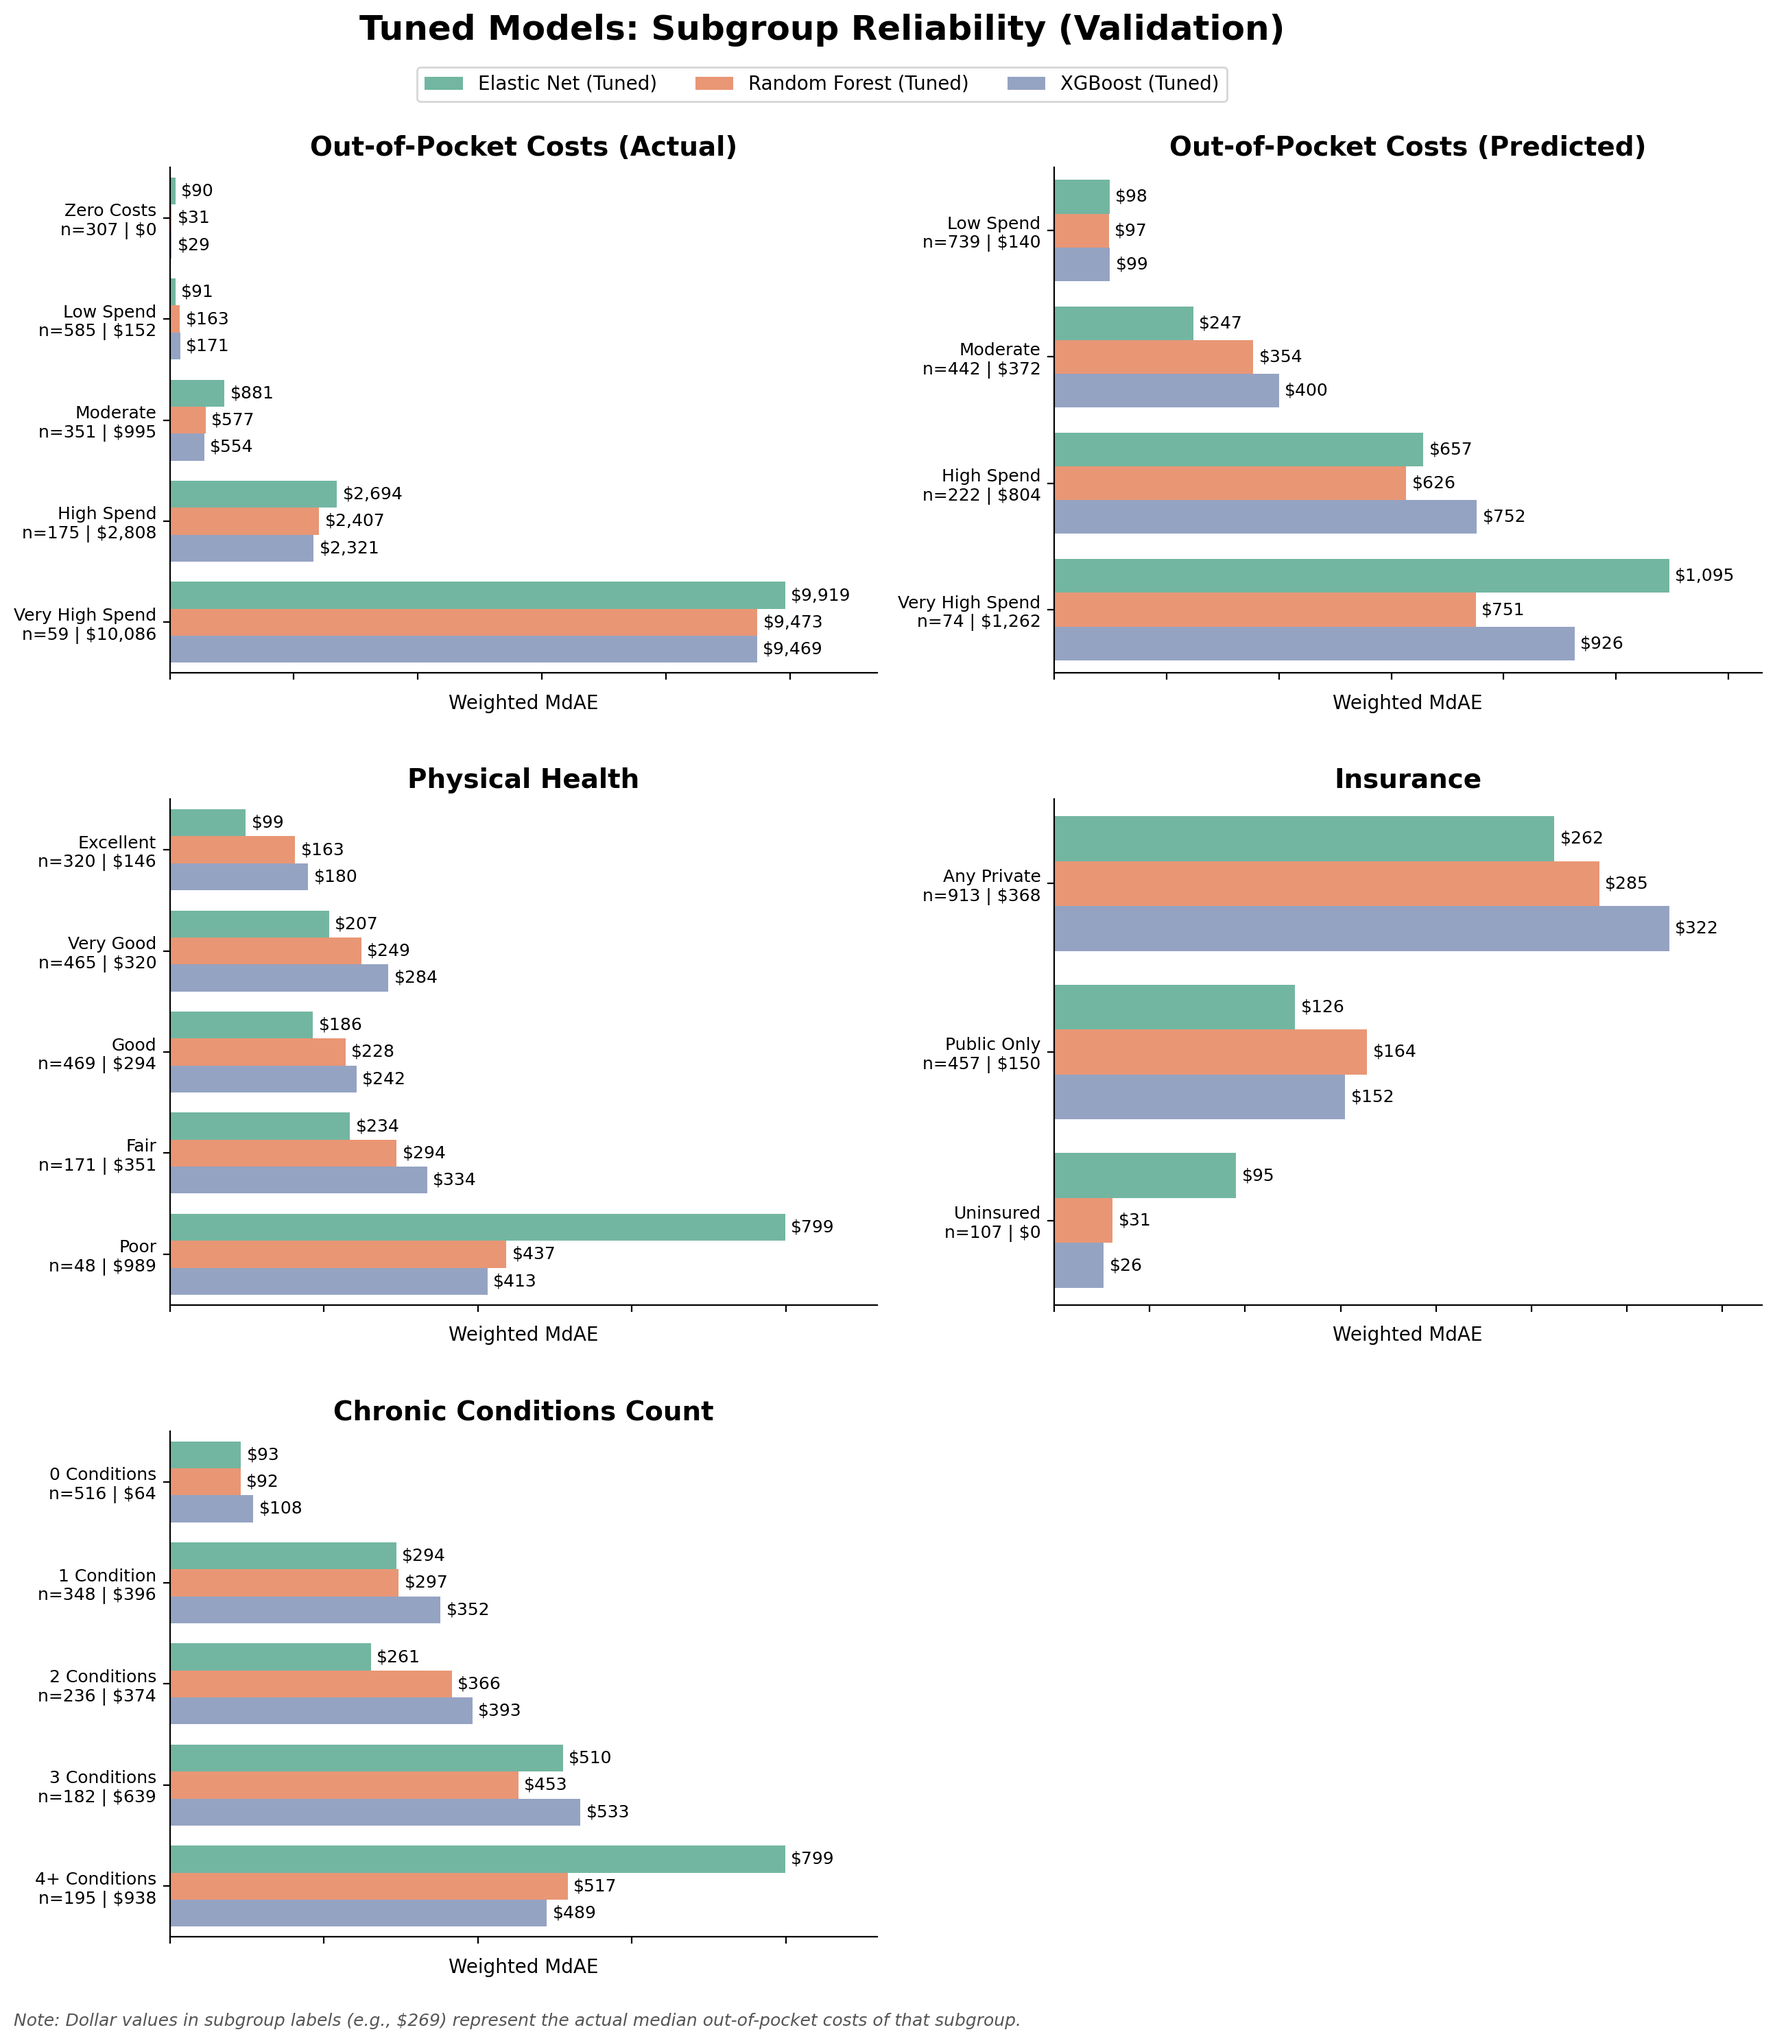
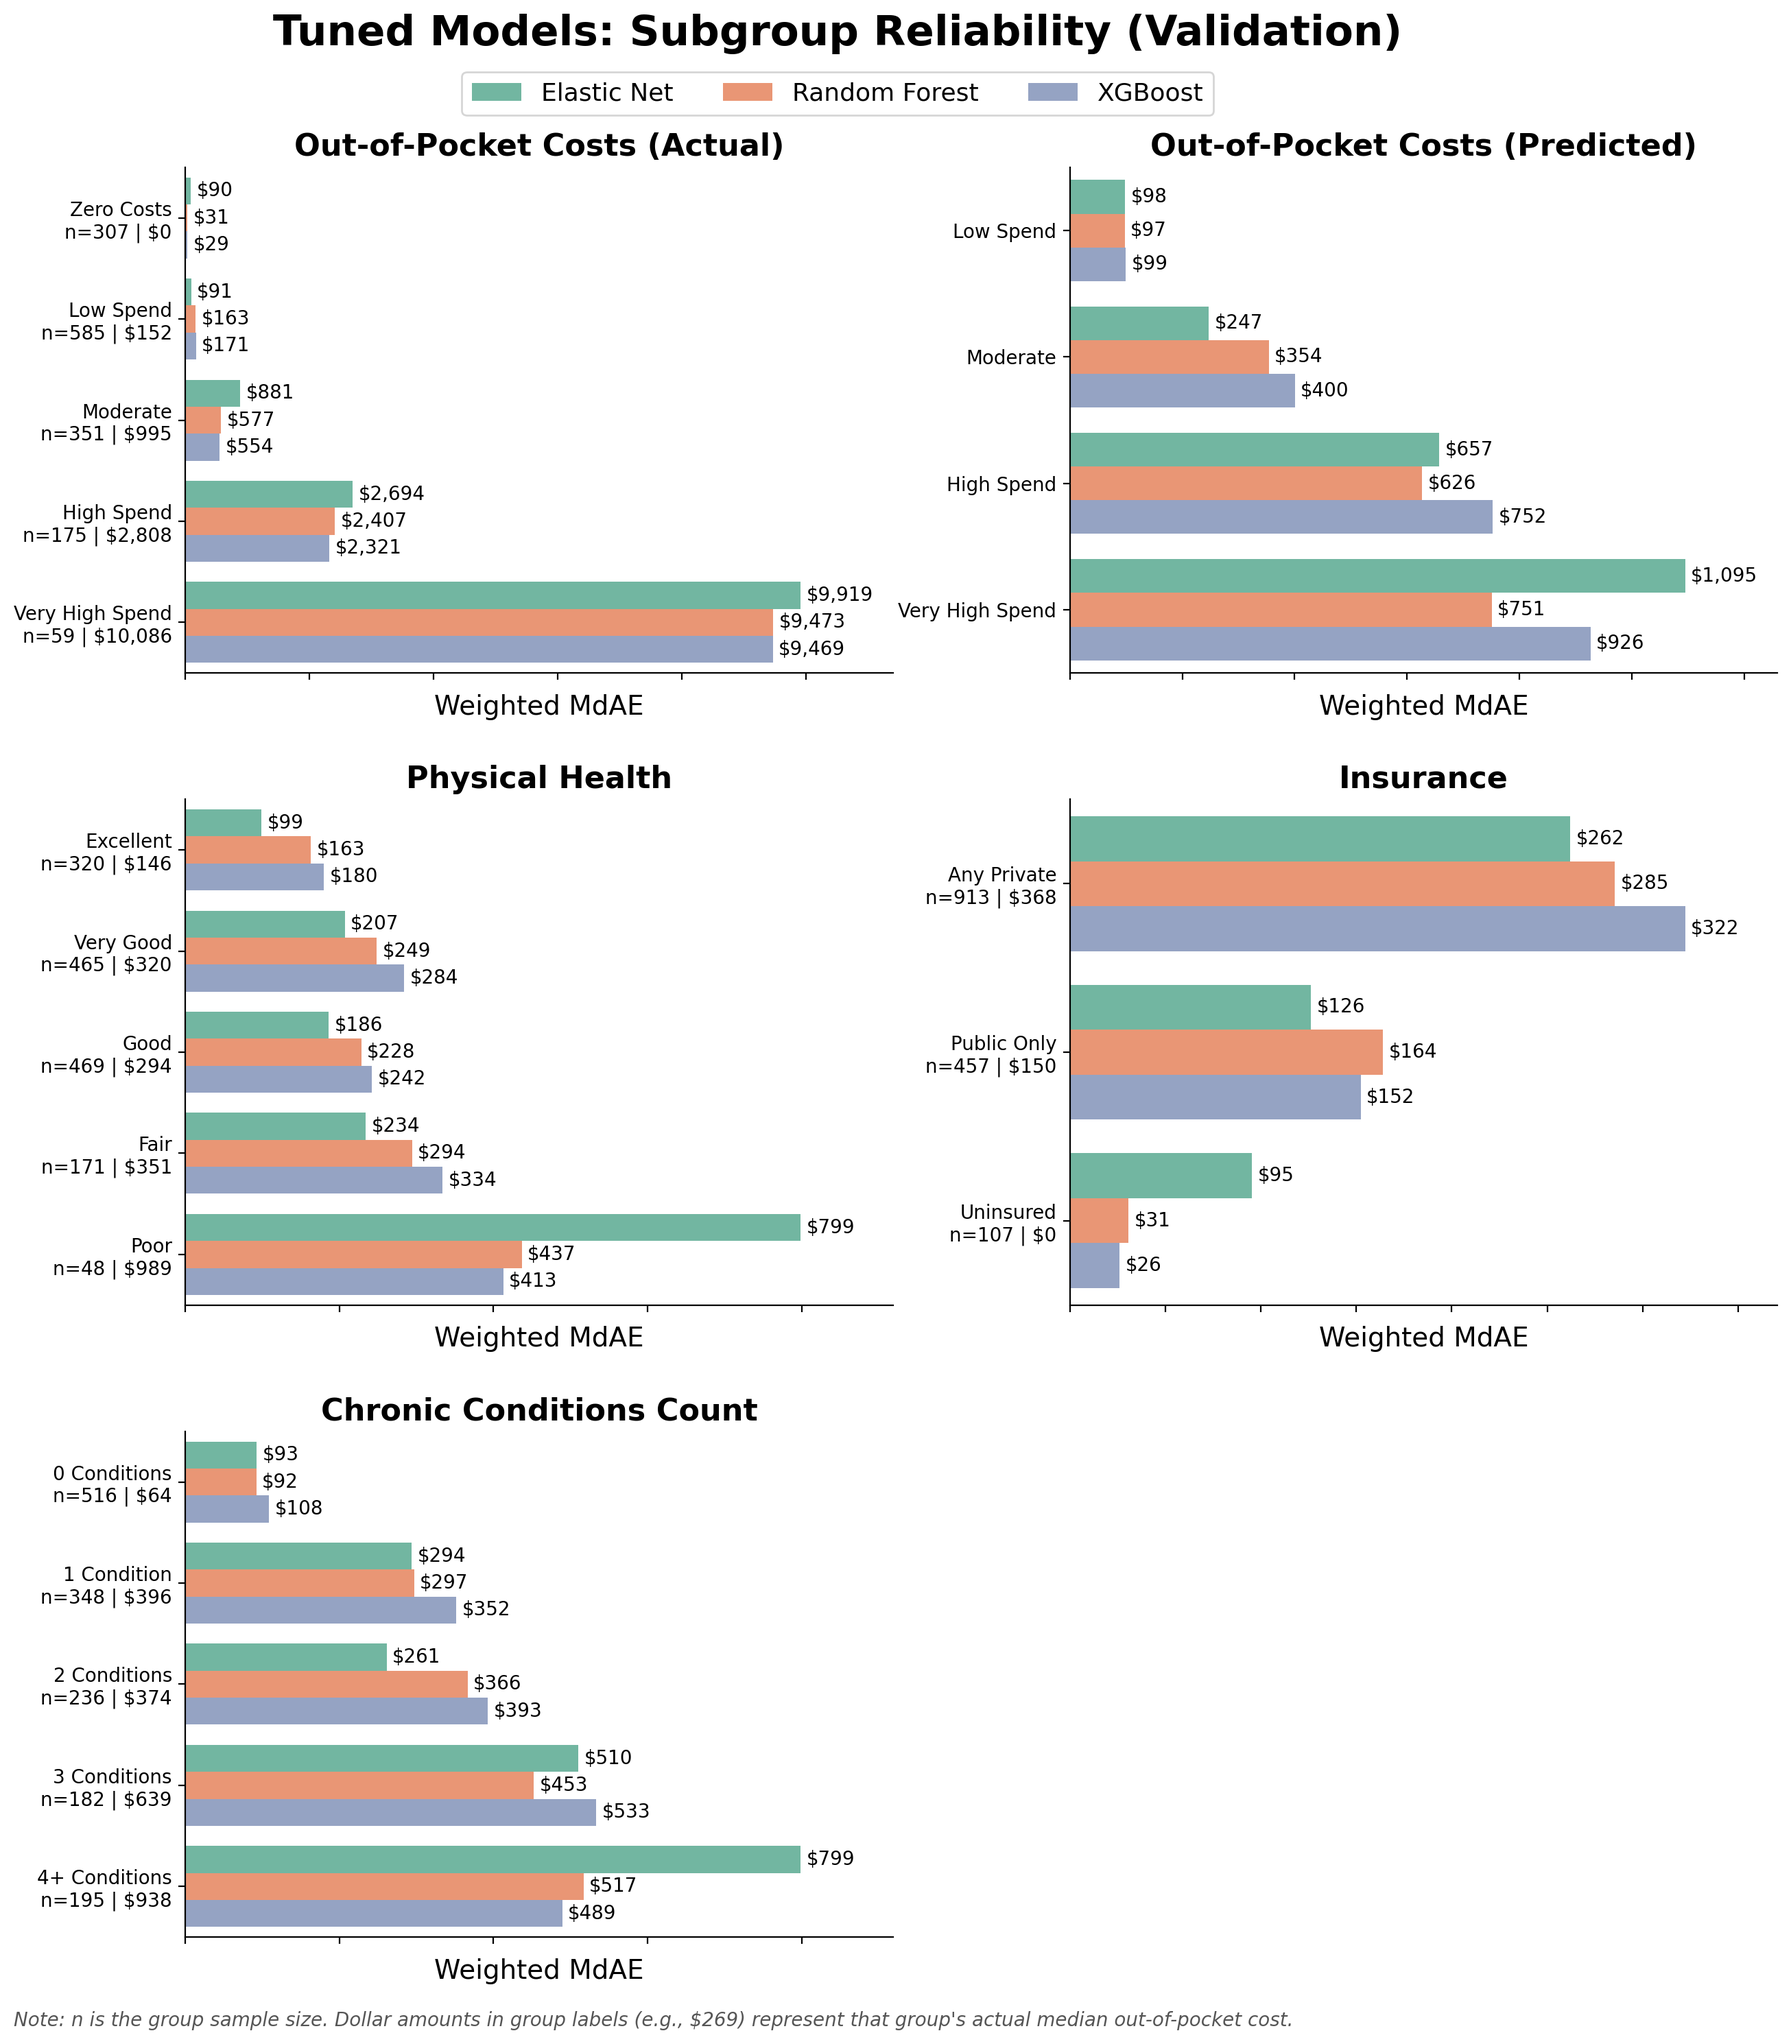
fix(eval): refine subgroup reliability plot annotations and increase font sizes

diff --git a/notebooks/2_modeling.py b/notebooks/2_modeling.py
@@ -1191,6 +1191,7 @@ def plot_subgroup_performance(df, column_labels, title, save_to_file=None):
     """
     # Filter data to requested columns 
     plot_data = df[df["Column"].isin(column_labels)].copy()
+    plot_data["Model"] = plot_data["Model"].str.replace(" (Tuned)", "", regex=False)
 
     # Create faceted bar plot grid with model as hue
     g = sns.catplot(
@@ -1212,19 +1213,18 @@ def plot_subgroup_performance(df, column_labels, title, save_to_file=None):
     # Calculate dynamic coordinates based on figure height (in inches) to ensure identical spacing across plots
     fig_height = g.fig.get_figheight()
     title_y = 1.0 - (0.18 / fig_height)
-    legend_y = 1.0 - (0.50 / fig_height)
     subplots_top = 1.0 - (1.3 / fig_height)
     subplots_bottom = 0.80 / fig_height
 
     # Customize title and spacing
-    g.set_titles("{col_name}", weight="bold", size=14)
-    g.fig.suptitle(title, fontsize=18, weight="bold", y=title_y)
+    g.set_titles("{col_name}", weight="bold", size=16)
+    main_title = g.fig.suptitle(title, fontsize=22, weight="bold", y=title_y)
     plt.subplots_adjust(top=subplots_top, bottom=subplots_bottom, hspace=0.25, wspace=0.25)
 
     # Apply custom formatting to each subplot
     for ax in g.axes.flat:
         ax.set_ylabel("")
-        ax.set_xlabel("Weighted MdAE")
+        ax.set_xlabel("Weighted MdAE", fontsize=14)
         ax.set_xticklabels([])  # Removes redundant x-tick labels (since bars are annotated)
         
         # Get y-tick labels and update them with Sample Size and Median Actual Cost
@@ -1236,7 +1236,8 @@ def plot_subgroup_performance(df, column_labels, title, save_to_file=None):
         new_labels = []
         for label in y_labels:
             subgroup_data = plot_data[(plot_data["Column"] == col_name) & (plot_data["Group"] == label)]
-            if not subgroup_data.empty:
+            # Predicted-cost groups differ by model, so shared group statistics would mislead.
+            if not subgroup_data.empty and col_name != "Out-of-Pocket Costs (Predicted)":
                 first_row = subgroup_data.iloc[0]
                 n = first_row["Sample Size"]
                 med = first_row["Median Actual Cost"]
@@ -1247,26 +1248,32 @@ def plot_subgroup_performance(df, column_labels, title, save_to_file=None):
         
         # Set ticks explicitly first to avoid matplotlib UserWarning
         ax.set_yticks(ax.get_yticks())
-        ax.set_yticklabels(new_labels, fontsize=9)
+        ax.set_yticklabels(new_labels, fontsize=10)
         
         for c in ax.containers:          
             value_labels = [f"${v:,.0f}" for v in c.datavalues]  # Formats value labels with thousand separator and no decimals
-            ax.bar_label(c, labels=value_labels, padding=3, fontsize=9)
+            ax.bar_label(c, labels=value_labels, padding=3, fontsize=10)
         ax.margins(x=0.15)
     
-    sns.move_legend(g, "upper center", bbox_to_anchor=(0.5, legend_y), ncol=3, frameon=True, title=None)
-    
-    # Add footnote
-    # Compute final layout, then align footnote with the first subplot's leftmost label
+    # Center the legend in the gap between the main title and subplot titles.
     g.fig.canvas.draw()
+    renderer = g.fig.canvas.get_renderer()
+    figure_coords = g.fig.transFigure.inverted()
+    title_bottom = main_title.get_window_extent(renderer).transformed(figure_coords).y0
+    subplot_top = max(ax.title.get_window_extent(renderer).transformed(figure_coords).y1
+                      for ax in g.axes.flat)
+    sns.move_legend(g, "center", bbox_to_anchor=(0.5, (title_bottom + subplot_top) / 2),
+                    ncol=3, frameon=True, title=None, fontsize=13)
+
+    # Align the footnote with the first subplot's leftmost label.
     footnote_x = g.axes.flat[0].get_tightbbox(g.fig.canvas.get_renderer()).transformed(g.fig.transFigure.inverted()).x0
 
     # Add footnote at the bottom, aligned with the leftmost label/title
     g.fig.text(
         footnote_x, 
         0.01, 
-        "Note: Dollar values in subgroup labels (e.g., $269) represent the actual median out-of-pocket costs of that subgroup.", 
-        fontsize=9, 
+        "Note: n is the group sample size. Dollar amounts in group labels (e.g., $269) represent that group's actual median out-of-pocket cost.",
+        fontsize=10,
         style="italic", 
         color="#555555",
         ha="left"
